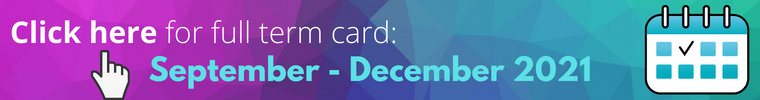
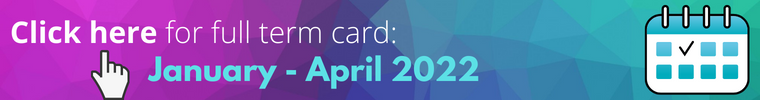
new termcard

diff --git a/content/activities/termcard.md b/content/activities/termcard.md
@@ -4,7 +4,8 @@ type = "termcard"
 +++
 {{<figure src="/img/activities/termcard.png" 
     class="img-thumbnail img-responsive"
-    alt="Link to the full list of events for this term" link="https://longmeadow-church.us12.list-manage.com/track/click?u=324d53d10be59eb4b8932e96b&id=68514fb5b8&e=802be02c27">}}
+    alt="Link to the full list of events for this term"
+    link="https://longmeadow-church.us12.list-manage.com/track/click?u=324d53d10be59eb4b8932e96b&id=71922e1af6&e=eea917d44b">}}
 
 <!--more-->
 
